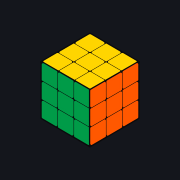
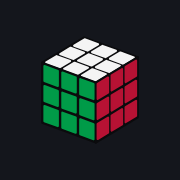
El icono de la app es el cubo de los ejemplos y sustituye al emoji de la cabecera (#37)

Changed region(s): [[0.2222, 0.1944, 0.7778, 0.8056]]

diff --git a/src/App.css b/src/App.css
@@ -14,7 +14,8 @@ code { background: var(--card); padding: 1px 6px; border-radius: 4px; }
 .sr-only { position: absolute; width: 1px; height: 1px; overflow: hidden; clip: rect(0 0 0 0); white-space: nowrap; }
 
 .top { position: sticky; top: 0; z-index: 10; display: flex; align-items: center; justify-content: space-between; gap: 8px; padding: 10px 16px; background: rgba(20,22,28,.92); backdrop-filter: blur(8px); border-bottom: 1px solid var(--line); }
-.brand { font-weight: 800; text-decoration: none; color: var(--text); }
+.brand { display: inline-flex; align-items: center; gap: 8px; font-weight: 800; text-decoration: none; color: var(--text); }
+.brand img { border-radius: 6px; }
 .brand span { color: var(--accent); }
 .top nav { display: flex; gap: 4px; }
 .top nav a { color: var(--muted); text-decoration: none; padding: 10px 10px; border-radius: 8px; min-height: 44px; display: inline-flex; align-items: center; font-size: .92rem; }

diff --git a/src/App.tsx b/src/App.tsx
@@ -181,7 +181,7 @@ export default function App({ instant = reducedMotion() }: { instant?: boolean }
   return (
     <>
       <header className="top">
-        <a href="#/" className="brand">🧊 Cubo<span>Fácil</span></a>
+        <a href="#/" className="brand"><img src={`${import.meta.env.BASE_URL}icon.svg`} alt="" width="28" height="28" />Cubo<span>Fácil</span></a>
         <nav aria-label="Principal">
           <a href="#/" aria-current={cur(!hash.startsWith('#/practica') && !hash.startsWith('#/fuentes'))}>Lecciones</a>
           <a href="#/practica" aria-current={cur(hash === '#/practica')}>Practicar</a>
